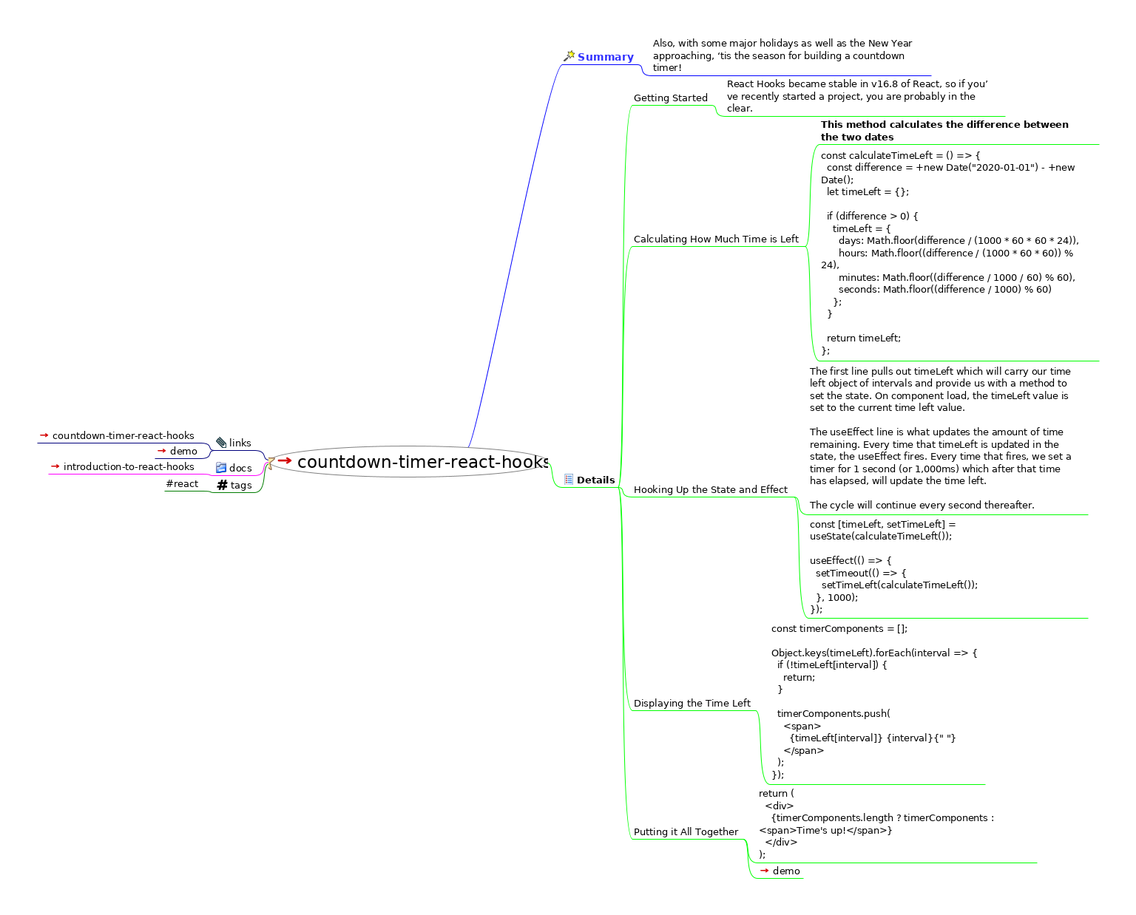
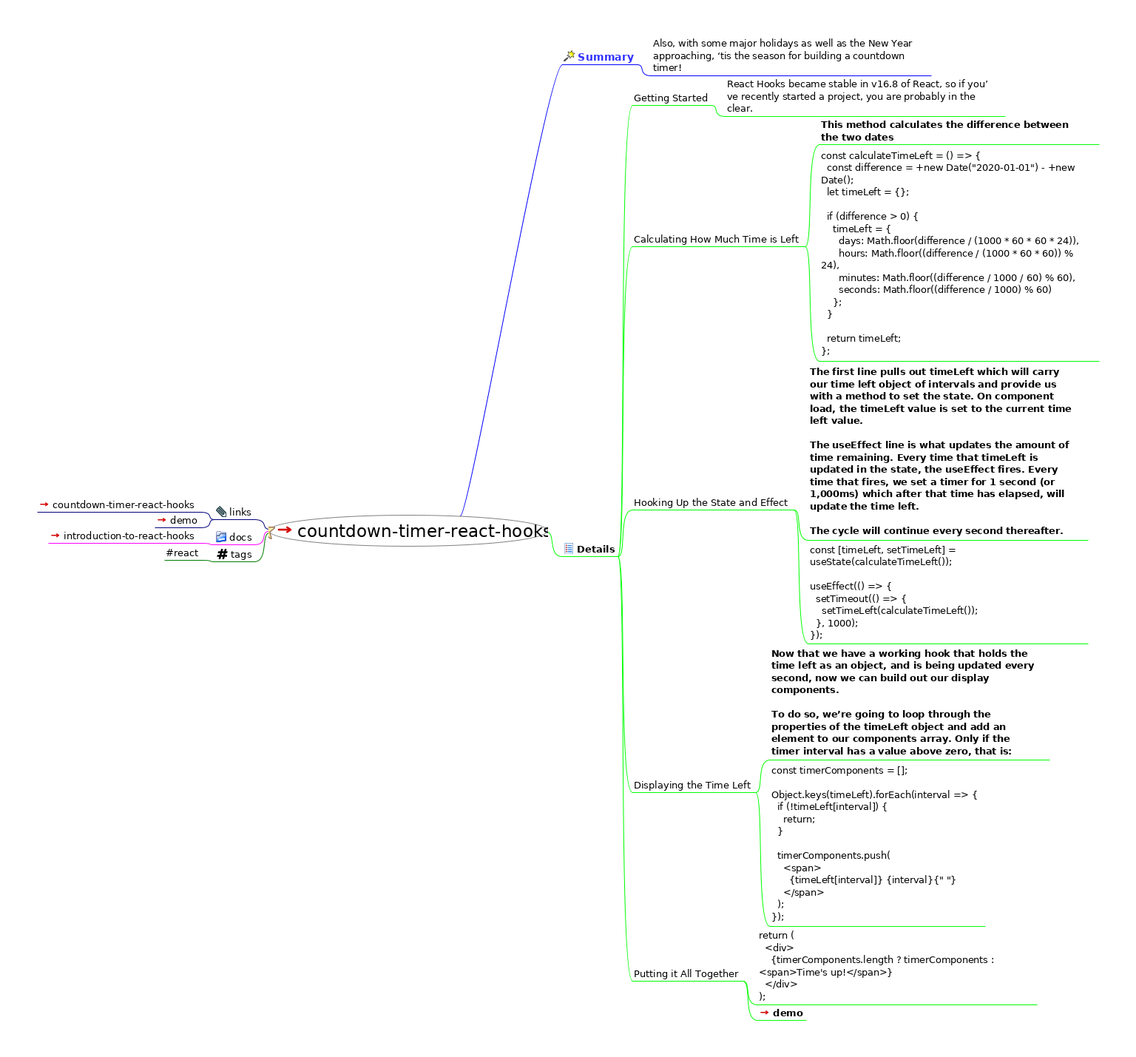
start countdown timer react hooks

Changed region(s): [[0.0312, 0.0307, 0.9375, 0.9822]]

diff --git a/2019/11/countdown-timer-react-hooks.html b/2019/11/countdown-timer-react-hooks.html
@@ -23,10 +23,10 @@
                    };
                };
           
-          --></script></head><body><h1>countdown-timer-react-hooks</h1><div style="width:96%;  padding:2%;  margin-bottom:10px;  border: 0px;  text-align:center;  vertical-align:center;"><img src="countdown-timer-react-hooks.html_files/image.png" style="margin-bottom:10px; &#9;border: 0px; &#9;text-align:center; &#9;vertical-align:center;" alt="Imagemap" usemap="#fm_imagemap" /></div><map name="fm_imagemap" id="fm_imagemap"><area shape="rect" href="index.html" alt="countdown-timer-react-hooks" title="countdown-timer-react-hooks" coords="363,603,741,646" />
+          --></script></head><body><h1>countdown-timer-react-hooks</h1><div style="width:96%;  padding:2%;  margin-bottom:10px;  border: 0px;  text-align:center;  vertical-align:center;"><img src="countdown-timer-react-hooks.html_files/image.png" style="margin-bottom:10px; &#9;border: 0px; &#9;text-align:center; &#9;vertical-align:center;" alt="Imagemap" usemap="#fm_imagemap" /></div><map name="fm_imagemap" id="fm_imagemap"><area shape="rect" href="index.html" alt="countdown-timer-react-hooks" title="countdown-timer-react-hooks" coords="363,696,741,739" />
 <area shape="rect" href="#FMID_1226961462FM" alt="Summary" title="Summary" coords="760,68,862,87" />
 <area shape="rect" href="#FMID_1869070715FM" alt="Also, with some major holidays as well a ..." title="Also, with some major holidays as well a ..." coords="881,50,1259,102" />
-<area shape="rect" href="#FMID_120250381FM" alt="Details" title="Details" coords="760,641,836,659" />
+<area shape="rect" href="#FMID_120250381FM" alt="Details" title="Details" coords="760,734,836,752" />
 <area shape="rect" href="#FMID_1518855550FM" alt="Getting Started" title="Getting Started" coords="855,124,962,142" />
 <area shape="rect" href="#FMID_8458858FM" alt="React Hooks became stable in v16.8 of Re ..." title="React Hooks became stable in v16.8 of Re ..." coords="981,105,1359,157" />
 <area shape="rect" href="#FMID_962556769FM" alt="Calculating How Much Time is Left" title="Calculating How Much Time is Left" coords="855,315,1089,333" />
@@ -34,30 +34,31 @@
 <area shape="rect" href="#FMID_1756193470FM" alt="const calculateTimeLeft = () =&gt; {
   cons ..." title="const calculateTimeLeft = () =&gt; {
   cons ..." coords="1108,198,1486,488" />
-<area shape="rect" href="#FMID_1580346473FM" alt="Hooking Up the State and Effect" title="Hooking Up the State and Effect" coords="855,654,1074,672" />
-<area shape="rect" href="#FMID_258451495FM" alt="The first line pulls out timeLeft which  ..." title="The first line pulls out timeLeft which  ..." coords="1093,491,1471,696" />
-<area shape="rect" href="#FMID_1047162089FM" alt="const [timeLeft, setTimeLeft] = useState ..." title="const [timeLeft, setTimeLeft] = useState ..." coords="1093,699,1471,836" />
-<area shape="rect" href="#FMID_1223853790FM" alt="Displaying the Time Left" title="Displaying the Time Left" coords="855,943,1022,961" />
+<area shape="rect" href="#FMID_1580346473FM" alt="Hooking Up the State and Effect" title="Hooking Up the State and Effect" coords="855,671,1074,689" />
+<area shape="rect" href="#FMID_258451495FM" alt="The first line pulls out timeLeft which  ..." title="The first line pulls out timeLeft which  ..." coords="1093,491,1471,730" />
+<area shape="rect" href="#FMID_1047162089FM" alt="const [timeLeft, setTimeLeft] = useState ..." title="const [timeLeft, setTimeLeft] = useState ..." coords="1093,733,1471,870" />
+<area shape="rect" href="#FMID_1223853790FM" alt="Displaying the Time Left" title="Displaying the Time Left" coords="855,1053,1022,1071" />
+<area shape="rect" href="#FMID_1880533662FM" alt="Now that we have a working hook that hol ..." title="Now that we have a working hook that hol ..." coords="1041,873,1419,1027" />
 <area shape="rect" href="#FMID_1792001186FM" alt="const timerComponents = [];
 
 Object.keys ..." title="const timerComponents = [];
 
-Object.keys ..." coords="1041,839,1332,1061" />
-<area shape="rect" href="#FMID_1848906989FM" alt="Putting it All Together" title="Putting it All Together" coords="855,1117,1005,1135" />
+Object.keys ..." coords="1041,1030,1332,1252" />
+<area shape="rect" href="#FMID_1848906989FM" alt="Putting it All Together" title="Putting it All Together" coords="855,1308,1005,1326" />
 <area shape="rect" href="#FMID_1466101325FM" alt="return (
   &lt;div&gt;
     {timerComponents.le ..." title="return (
   &lt;div&gt;
-    {timerComponents.le ..." coords="1024,1064,1402,1167" />
-<area shape="rect" href="https://codesandbox.io/s/funny-sinoussi-howyc" alt="demo" title="demo" coords="1024,1170,1086,1188" />
-<area shape="rect" href="#FMID_808607355FM" alt="links" title="links" coords="290,591,344,609" />
-<area shape="rect" href="https://alligator.io/react/countdown-timer-react-hooks/" alt="countdown-timer-react-hooks" title="countdown-timer-react-hooks" coords="50,581,271,599" />
-<area shape="rect" href="https://codesandbox.io/s/funny-sinoussi-howyc" alt="demo" title="demo" coords="209,602,271,620" />
-<area shape="rect" href="#FMID_1100215200FM" alt="docs" title="docs" coords="290,625,344,643" />
-<area shape="rect" href="https://alligator.io/react/react-hooks/" alt="introduction-to-react-hooks" title="introduction-to-react-hooks" coords="65,623,271,641" />
-<area shape="rect" href="#FMID_466759422FM" alt="tags" title="tags" coords="291,648,344,666" />
-<area shape="rect" href="#FMID_726822941FM" alt="#react" title="#react" coords="222,646,272,664" />
+    {timerComponents.le ..." coords="1024,1255,1402,1358" />
+<area shape="rect" href="https://codesandbox.io/s/funny-sinoussi-howyc" alt="demo" title="demo" coords="1024,1361,1090,1379" />
+<area shape="rect" href="#FMID_808607355FM" alt="links" title="links" coords="290,684,344,702" />
+<area shape="rect" href="https://alligator.io/react/countdown-timer-react-hooks/" alt="countdown-timer-react-hooks" title="countdown-timer-react-hooks" coords="50,674,271,692" />
+<area shape="rect" href="https://codesandbox.io/s/funny-sinoussi-howyc" alt="demo" title="demo" coords="209,695,271,713" />
+<area shape="rect" href="#FMID_1100215200FM" alt="docs" title="docs" coords="290,718,344,736" />
+<area shape="rect" href="https://alligator.io/react/react-hooks/" alt="introduction-to-react-hooks" title="introduction-to-react-hooks" coords="65,716,271,734" />
+<area shape="rect" href="#FMID_466759422FM" alt="tags" title="tags" coords="291,741,344,759" />
+<area shape="rect" href="#FMID_726822941FM" alt="#react" title="#react" coords="222,739,272,757" />
 </map>
 
-<div class="node"><img src="countdown-timer-react-hooks.html_files/hide.png" class="hideshow" alt="hide" onClick="toggle(&quot;N65543&quot;)" id="imgN65543" /><img src="countdown-timer-react-hooks.html_files/icons/bookmark.svg" alt="bookmark" /> <a id="FMID_1831615648FM" /><div class="nodecontent" style="color:#000000;font-size:150%;"><a href="index.html">countdown-timer-react-hooks</a> <a href="index.html"><img src="countdown-timer-react-hooks.html_files/ilink.png" alt="User Link" style="border-width:0" /></a></div><div class="content" id="N65543"><div class="node"><img src="countdown-timer-react-hooks.html_files/hide.png" class="hideshow" alt="hide" onClick="toggle(&quot;N66445&quot;)" id="imgN66445" /><img src="countdown-timer-react-hooks.html_files/icons/wizard.svg" alt="wizard" /> <a id="FMID_1226961462FM" /><div class="nodecontent" style="color:#3333ff;font-size:92%;font-weight:bold;">Summary</div><div class="content" id="N66445"><div class="node"><img src="countdown-timer-react-hooks.html_files/leaf.png" class="hideshow" alt="leaf" /><a id="FMID_1869070715FM" /><div class="nodecontent" style="color:#000000;font-size:83%;">Also, with some major holidays as well as the New Year approaching, ‘tis the season for building a countdown timer!</div></div></div></div><div class="node"><img src="countdown-timer-react-hooks.html_files/hide.png" class="hideshow" alt="hide" onClick="toggle(&quot;N66523&quot;)" id="imgN66523" /><img src="countdown-timer-react-hooks.html_files/icons/list.svg" alt="list" /> <a id="FMID_120250381FM" /><div class="nodecontent" style="color:#000000;font-size:83%;font-weight:bold;">Details</div><div class="content" id="N66523"><div class="node"><img src="countdown-timer-react-hooks.html_files/hide.png" class="hideshow" alt="hide" onClick="toggle(&quot;N66564&quot;)" id="imgN66564" /><a id="FMID_1518855550FM" /><div class="nodecontent" style="color:#000000;font-size:83%;">Getting Started</div><div class="content" id="N66564"><div class="node"><img src="countdown-timer-react-hooks.html_files/leaf.png" class="hideshow" alt="leaf" /><a id="FMID_8458858FM" /><div class="nodecontent" style="color:#000000;font-size:83%;">React Hooks became stable in v16.8 of React, so if you’ve recently started a project, you are probably in the clear.</div></div></div></div><div class="node"><img src="countdown-timer-react-hooks.html_files/hide.png" class="hideshow" alt="hide" onClick="toggle(&quot;N66636&quot;)" id="imgN66636" /><a id="FMID_962556769FM" /><div class="nodecontent" style="color:#000000;font-size:83%;">Calculating How Much Time is Left</div><div class="content" id="N66636"><div class="node"><img src="countdown-timer-react-hooks.html_files/leaf.png" class="hideshow" alt="leaf" /><a id="FMID_1848900478FM" /><div class="nodecontent" style="color:#000000;font-size:83%;font-weight:bold;">This method calculates the difference between the two dates</div></div><div class="node"><img src="countdown-timer-react-hooks.html_files/leaf.png" class="hideshow" alt="leaf" /><a id="FMID_1756193470FM" /><div class="nodecontent" style="color:#000000;font-size:83%;">const calculateTimeLeft = () =&gt; {<br />  const difference = +new Date("2020-01-01") - +new Date();<br />  let timeLeft = {};<br /><br />  if (difference &gt; 0) {<br />    timeLeft = {<br />      days: Math.floor(difference / (1000 * 60 * 60 * 24)),<br />      hours: Math.floor((difference / (1000 * 60 * 60)) % 24),<br />      minutes: Math.floor((difference / 1000 / 60) % 60),<br />      seconds: Math.floor((difference / 1000) % 60)<br />    };<br />  }<br /><br />  return timeLeft;<br />};</div></div></div></div><div class="node"><img src="countdown-timer-react-hooks.html_files/hide.png" class="hideshow" alt="hide" onClick="toggle(&quot;N66744&quot;)" id="imgN66744" /><a id="FMID_1580346473FM" /><div class="nodecontent" style="color:#000000;font-size:83%;">Hooking Up the State and Effect</div><div class="content" id="N66744"><div class="node"><img src="countdown-timer-react-hooks.html_files/leaf.png" class="hideshow" alt="leaf" /><a id="FMID_258451495FM" /><div class="nodecontent" style="color:#000000;font-size:83%;">The first line pulls out timeLeft which will carry our time left object of intervals and provide us with a method to set the state. On component load, the timeLeft value is set to the current time left value.<br /><br />The useEffect line is what updates the amount of time remaining. Every time that timeLeft is updated in the state, the useEffect fires. Every time that fires, we set a timer for 1 second (or 1,000ms) which after that time has elapsed, will update the time left.<br /><br />The cycle will continue every second thereafter.</div></div><div class="node"><img src="countdown-timer-react-hooks.html_files/leaf.png" class="hideshow" alt="leaf" /><a id="FMID_1047162089FM" /><div class="nodecontent" style="color:#000000;font-size:83%;">const [timeLeft, setTimeLeft] = useState(calculateTimeLeft());<br /><br />useEffect(() =&gt; {<br />  setTimeout(() =&gt; {<br />    setTimeLeft(calculateTimeLeft());<br />  }, 1000);<br />});</div></div></div></div><div class="node"><img src="countdown-timer-react-hooks.html_files/hide.png" class="hideshow" alt="hide" onClick="toggle(&quot;N66852&quot;)" id="imgN66852" /><a id="FMID_1223853790FM" /><div class="nodecontent" style="color:#000000;font-size:83%;">Displaying the Time Left</div><div class="content" id="N66852"><div class="node"><img src="countdown-timer-react-hooks.html_files/leaf.png" class="hideshow" alt="leaf" /><a id="FMID_1792001186FM" /><div class="nodecontent" style="color:#000000;font-size:83%;">const timerComponents = [];<br /><br />Object.keys(timeLeft).forEach(interval =&gt; {<br />  if (!timeLeft[interval]) {<br />    return;<br />  }<br /><br />  timerComponents.push(<br />    &lt;span&gt;<br />      {timeLeft[interval]} {interval}{" "}<br />    &lt;/span&gt;<br />  );<br />});</div></div></div></div><div class="node"><img src="countdown-timer-react-hooks.html_files/hide.png" class="hideshow" alt="hide" onClick="toggle(&quot;N66924&quot;)" id="imgN66924" /><a id="FMID_1848906989FM" /><div class="nodecontent" style="color:#000000;font-size:83%;">Putting it All Together</div><div class="content" id="N66924"><div class="node"><img src="countdown-timer-react-hooks.html_files/leaf.png" class="hideshow" alt="leaf" /><a id="FMID_1466101325FM" /><div class="nodecontent" style="color:#000000;font-size:83%;">return (<br />  &lt;div&gt;<br />    {timerComponents.length ? timerComponents : &lt;span&gt;Time's up!&lt;/span&gt;}<br />  &lt;/div&gt;<br />);</div></div><div class="node"><img src="countdown-timer-react-hooks.html_files/leaf.png" class="hideshow" alt="leaf" /><a id="FMID_1381131086FM" /><div class="nodecontent" style="color:#000000;font-size:83%;"><a href="https://codesandbox.io/s/funny-sinoussi-howyc">demo</a> <a href="https://codesandbox.io/s/funny-sinoussi-howyc"><img src="countdown-timer-react-hooks.html_files/ilink.png" alt="User Link" style="border-width:0" /></a></div></div></div></div></div></div><div class="node"><img src="countdown-timer-react-hooks.html_files/hide.png" class="hideshow" alt="hide" onClick="toggle(&quot;N67034&quot;)" id="imgN67034" /><img src="countdown-timer-react-hooks.html_files/icons/attach.svg" alt="attach" /> <a id="FMID_808607355FM" /><div class="nodecontent" style="color:#000000;font-size:83%;">links</div><div class="content" id="N67034"><div class="node"><img src="countdown-timer-react-hooks.html_files/leaf.png" class="hideshow" alt="leaf" /><a id="FMID_147800645FM" /><div class="nodecontent" style="color:#000000;font-size:83%;"><a href="https://alligator.io/react/countdown-timer-react-hooks/">countdown-timer-react-hooks</a> <a href="https://alligator.io/react/countdown-timer-react-hooks/"><img src="countdown-timer-react-hooks.html_files/ilink.png" alt="User Link" style="border-width:0" /></a></div></div><div class="node"><img src="countdown-timer-react-hooks.html_files/leaf.png" class="hideshow" alt="leaf" /><a id="FMID_1605438661FM" /><div class="nodecontent" style="color:#000000;font-size:83%;"><a href="https://codesandbox.io/s/funny-sinoussi-howyc">demo</a> <a href="https://codesandbox.io/s/funny-sinoussi-howyc"><img src="countdown-timer-react-hooks.html_files/ilink.png" alt="User Link" style="border-width:0" /></a></div></div></div></div><div class="node"><img src="countdown-timer-react-hooks.html_files/hide.png" class="hideshow" alt="hide" onClick="toggle(&quot;N67150&quot;)" id="imgN67150" /><img src="countdown-timer-react-hooks.html_files/icons/folder.svg" alt="folder" /> <a id="FMID_1100215200FM" /><div class="nodecontent" style="color:#000000;font-size:83%;">docs</div><div class="content" id="N67150"><div class="node"><img src="countdown-timer-react-hooks.html_files/leaf.png" class="hideshow" alt="leaf" /><a id="FMID_1510512159FM" /><div class="nodecontent" style="color:#000000;font-size:83%;"><a href="https://alligator.io/react/react-hooks/">introduction-to-react-hooks</a> <a href="https://alligator.io/react/react-hooks/"><img src="countdown-timer-react-hooks.html_files/ilink.png" alt="User Link" style="border-width:0" /></a></div></div></div></div><div class="node"><img src="countdown-timer-react-hooks.html_files/hide.png" class="hideshow" alt="hide" onClick="toggle(&quot;N67229&quot;)" id="imgN67229" /><img src="countdown-timer-react-hooks.html_files/icons/hashtag.png" alt="hashtag" /> <a id="FMID_466759422FM" /><div class="nodecontent" style="color:#000000;font-size:83%;">tags</div><div class="content" id="N67229"><div class="node"><img src="countdown-timer-react-hooks.html_files/leaf.png" class="hideshow" alt="leaf" /><a id="FMID_726822941FM" /><div class="nodecontent" style="color:#000000;font-size:83%;">#react</div></div></div></div></div></div>
+<div class="node"><img src="countdown-timer-react-hooks.html_files/hide.png" class="hideshow" alt="hide" onClick="toggle(&quot;N65543&quot;)" id="imgN65543" /><img src="countdown-timer-react-hooks.html_files/icons/bookmark.svg" alt="bookmark" /> <a id="FMID_1831615648FM" /><div class="nodecontent" style="color:#000000;font-size:150%;"><a href="index.html">countdown-timer-react-hooks</a> <a href="index.html"><img src="countdown-timer-react-hooks.html_files/ilink.png" alt="User Link" style="border-width:0" /></a></div><div class="content" id="N65543"><div class="node"><img src="countdown-timer-react-hooks.html_files/hide.png" class="hideshow" alt="hide" onClick="toggle(&quot;N66445&quot;)" id="imgN66445" /><img src="countdown-timer-react-hooks.html_files/icons/wizard.svg" alt="wizard" /> <a id="FMID_1226961462FM" /><div class="nodecontent" style="color:#3333ff;font-size:92%;font-weight:bold;">Summary</div><div class="content" id="N66445"><div class="node"><img src="countdown-timer-react-hooks.html_files/leaf.png" class="hideshow" alt="leaf" /><a id="FMID_1869070715FM" /><div class="nodecontent" style="color:#000000;font-size:83%;">Also, with some major holidays as well as the New Year approaching, ‘tis the season for building a countdown timer!</div></div></div></div><div class="node"><img src="countdown-timer-react-hooks.html_files/hide.png" class="hideshow" alt="hide" onClick="toggle(&quot;N66523&quot;)" id="imgN66523" /><img src="countdown-timer-react-hooks.html_files/icons/list.svg" alt="list" /> <a id="FMID_120250381FM" /><div class="nodecontent" style="color:#000000;font-size:83%;font-weight:bold;">Details</div><div class="content" id="N66523"><div class="node"><img src="countdown-timer-react-hooks.html_files/hide.png" class="hideshow" alt="hide" onClick="toggle(&quot;N66564&quot;)" id="imgN66564" /><a id="FMID_1518855550FM" /><div class="nodecontent" style="color:#000000;font-size:83%;">Getting Started</div><div class="content" id="N66564"><div class="node"><img src="countdown-timer-react-hooks.html_files/leaf.png" class="hideshow" alt="leaf" /><a id="FMID_8458858FM" /><div class="nodecontent" style="color:#000000;font-size:83%;">React Hooks became stable in v16.8 of React, so if you’ve recently started a project, you are probably in the clear.</div></div></div></div><div class="node"><img src="countdown-timer-react-hooks.html_files/hide.png" class="hideshow" alt="hide" onClick="toggle(&quot;N66636&quot;)" id="imgN66636" /><a id="FMID_962556769FM" /><div class="nodecontent" style="color:#000000;font-size:83%;">Calculating How Much Time is Left</div><div class="content" id="N66636"><div class="node"><img src="countdown-timer-react-hooks.html_files/leaf.png" class="hideshow" alt="leaf" /><a id="FMID_1848900478FM" /><div class="nodecontent" style="color:#000000;font-size:83%;font-weight:bold;">This method calculates the difference between the two dates</div></div><div class="node"><img src="countdown-timer-react-hooks.html_files/leaf.png" class="hideshow" alt="leaf" /><a id="FMID_1756193470FM" /><div class="nodecontent" style="color:#000000;font-size:83%;">const calculateTimeLeft = () =&gt; {<br />  const difference = +new Date("2020-01-01") - +new Date();<br />  let timeLeft = {};<br /><br />  if (difference &gt; 0) {<br />    timeLeft = {<br />      days: Math.floor(difference / (1000 * 60 * 60 * 24)),<br />      hours: Math.floor((difference / (1000 * 60 * 60)) % 24),<br />      minutes: Math.floor((difference / 1000 / 60) % 60),<br />      seconds: Math.floor((difference / 1000) % 60)<br />    };<br />  }<br /><br />  return timeLeft;<br />};</div></div></div></div><div class="node"><img src="countdown-timer-react-hooks.html_files/hide.png" class="hideshow" alt="hide" onClick="toggle(&quot;N66744&quot;)" id="imgN66744" /><a id="FMID_1580346473FM" /><div class="nodecontent" style="color:#000000;font-size:83%;">Hooking Up the State and Effect</div><div class="content" id="N66744"><div class="node"><img src="countdown-timer-react-hooks.html_files/leaf.png" class="hideshow" alt="leaf" /><a id="FMID_258451495FM" /><div class="nodecontent" style="color:#000000;font-size:83%;font-weight:bold;">The first line pulls out timeLeft which will carry our time left object of intervals and provide us with a method to set the state. On component load, the timeLeft value is set to the current time left value.<br /><br />The useEffect line is what updates the amount of time remaining. Every time that timeLeft is updated in the state, the useEffect fires. Every time that fires, we set a timer for 1 second (or 1,000ms) which after that time has elapsed, will update the time left.<br /><br />The cycle will continue every second thereafter.</div></div><div class="node"><img src="countdown-timer-react-hooks.html_files/leaf.png" class="hideshow" alt="leaf" /><a id="FMID_1047162089FM" /><div class="nodecontent" style="color:#000000;font-size:83%;">const [timeLeft, setTimeLeft] = useState(calculateTimeLeft());<br /><br />useEffect(() =&gt; {<br />  setTimeout(() =&gt; {<br />    setTimeLeft(calculateTimeLeft());<br />  }, 1000);<br />});</div></div></div></div><div class="node"><img src="countdown-timer-react-hooks.html_files/hide.png" class="hideshow" alt="hide" onClick="toggle(&quot;N66852&quot;)" id="imgN66852" /><a id="FMID_1223853790FM" /><div class="nodecontent" style="color:#000000;font-size:83%;">Displaying the Time Left</div><div class="content" id="N66852"><div class="node"><img src="countdown-timer-react-hooks.html_files/leaf.png" class="hideshow" alt="leaf" /><a id="FMID_1880533662FM" /><div class="nodecontent" style="color:#000000;font-size:83%;font-weight:bold;">Now that we have a working hook that holds the time left as an object, and is being updated every second, now we can build out our display components.<br /><br />To do so, we’re going to loop through the properties of the timeLeft object and add an element to our components array. Only if the timer interval has a value above zero, that is:</div></div><div class="node"><img src="countdown-timer-react-hooks.html_files/leaf.png" class="hideshow" alt="leaf" /><a id="FMID_1792001186FM" /><div class="nodecontent" style="color:#000000;font-size:83%;">const timerComponents = [];<br /><br />Object.keys(timeLeft).forEach(interval =&gt; {<br />  if (!timeLeft[interval]) {<br />    return;<br />  }<br /><br />  timerComponents.push(<br />    &lt;span&gt;<br />      {timeLeft[interval]} {interval}{" "}<br />    &lt;/span&gt;<br />  );<br />});</div></div></div></div><div class="node"><img src="countdown-timer-react-hooks.html_files/hide.png" class="hideshow" alt="hide" onClick="toggle(&quot;N66960&quot;)" id="imgN66960" /><a id="FMID_1848906989FM" /><div class="nodecontent" style="color:#000000;font-size:83%;">Putting it All Together</div><div class="content" id="N66960"><div class="node"><img src="countdown-timer-react-hooks.html_files/leaf.png" class="hideshow" alt="leaf" /><a id="FMID_1466101325FM" /><div class="nodecontent" style="color:#000000;font-size:83%;">return (<br />  &lt;div&gt;<br />    {timerComponents.length ? timerComponents : &lt;span&gt;Time's up!&lt;/span&gt;}<br />  &lt;/div&gt;<br />);</div></div><div class="node"><img src="countdown-timer-react-hooks.html_files/leaf.png" class="hideshow" alt="leaf" /><a id="FMID_1381131086FM" /><div class="nodecontent" style="color:#000000;font-size:83%;font-weight:bold;"><a href="https://codesandbox.io/s/funny-sinoussi-howyc">demo</a> <a href="https://codesandbox.io/s/funny-sinoussi-howyc"><img src="countdown-timer-react-hooks.html_files/ilink.png" alt="User Link" style="border-width:0" /></a></div></div></div></div></div></div><div class="node"><img src="countdown-timer-react-hooks.html_files/hide.png" class="hideshow" alt="hide" onClick="toggle(&quot;N67070&quot;)" id="imgN67070" /><img src="countdown-timer-react-hooks.html_files/icons/attach.svg" alt="attach" /> <a id="FMID_808607355FM" /><div class="nodecontent" style="color:#000000;font-size:83%;">links</div><div class="content" id="N67070"><div class="node"><img src="countdown-timer-react-hooks.html_files/leaf.png" class="hideshow" alt="leaf" /><a id="FMID_147800645FM" /><div class="nodecontent" style="color:#000000;font-size:83%;"><a href="https://alligator.io/react/countdown-timer-react-hooks/">countdown-timer-react-hooks</a> <a href="https://alligator.io/react/countdown-timer-react-hooks/"><img src="countdown-timer-react-hooks.html_files/ilink.png" alt="User Link" style="border-width:0" /></a></div></div><div class="node"><img src="countdown-timer-react-hooks.html_files/leaf.png" class="hideshow" alt="leaf" /><a id="FMID_1605438661FM" /><div class="nodecontent" style="color:#000000;font-size:83%;"><a href="https://codesandbox.io/s/funny-sinoussi-howyc">demo</a> <a href="https://codesandbox.io/s/funny-sinoussi-howyc"><img src="countdown-timer-react-hooks.html_files/ilink.png" alt="User Link" style="border-width:0" /></a></div></div></div></div><div class="node"><img src="countdown-timer-react-hooks.html_files/hide.png" class="hideshow" alt="hide" onClick="toggle(&quot;N67186&quot;)" id="imgN67186" /><img src="countdown-timer-react-hooks.html_files/icons/folder.svg" alt="folder" /> <a id="FMID_1100215200FM" /><div class="nodecontent" style="color:#000000;font-size:83%;">docs</div><div class="content" id="N67186"><div class="node"><img src="countdown-timer-react-hooks.html_files/leaf.png" class="hideshow" alt="leaf" /><a id="FMID_1510512159FM" /><div class="nodecontent" style="color:#000000;font-size:83%;"><a href="https://alligator.io/react/react-hooks/">introduction-to-react-hooks</a> <a href="https://alligator.io/react/react-hooks/"><img src="countdown-timer-react-hooks.html_files/ilink.png" alt="User Link" style="border-width:0" /></a></div></div></div></div><div class="node"><img src="countdown-timer-react-hooks.html_files/hide.png" class="hideshow" alt="hide" onClick="toggle(&quot;N67265&quot;)" id="imgN67265" /><img src="countdown-timer-react-hooks.html_files/icons/hashtag.png" alt="hashtag" /> <a id="FMID_466759422FM" /><div class="nodecontent" style="color:#000000;font-size:83%;">tags</div><div class="content" id="N67265"><div class="node"><img src="countdown-timer-react-hooks.html_files/leaf.png" class="hideshow" alt="leaf" /><a id="FMID_726822941FM" /><div class="nodecontent" style="color:#000000;font-size:83%;">#react</div></div></div></div></div></div>
 </body></html>

diff --git a/2019/11/countdown-timer-react-hooks.mm b/2019/11/countdown-timer-react-hooks.mm
@@ -85,15 +85,22 @@
 <node TEXT="const calculateTimeLeft = () =&gt; {&#xa;  const difference = +new Date(&quot;2020-01-01&quot;) - +new Date();&#xa;  let timeLeft = {};&#xa;&#xa;  if (difference &gt; 0) {&#xa;    timeLeft = {&#xa;      days: Math.floor(difference / (1000 * 60 * 60 * 24)),&#xa;      hours: Math.floor((difference / (1000 * 60 * 60)) % 24),&#xa;      minutes: Math.floor((difference / 1000 / 60) % 60),&#xa;      seconds: Math.floor((difference / 1000) % 60)&#xa;    };&#xa;  }&#xa;&#xa;  return timeLeft;&#xa;};" ID="ID_1756193470" CREATED="1574670114240" MODIFIED="1574670115971"/>
 </node>
 <node TEXT="Hooking Up the State and Effect" ID="ID_1580346473" CREATED="1574669534349" MODIFIED="1574669542630">
-<node TEXT="The first line pulls out timeLeft which will carry our time left object of intervals and provide us with a method to set the state. On component load, the timeLeft value is set to the current time left value.&#xa;&#xa;The useEffect line is what updates the amount of time remaining. Every time that timeLeft is updated in the state, the useEffect fires. Every time that fires, we set a timer for 1 second (or 1,000ms) which after that time has elapsed, will update the time left.&#xa;&#xa;The cycle will continue every second thereafter." ID="ID_258451495" CREATED="1574670191889" MODIFIED="1574670193860"/>
+<node TEXT="The first line pulls out timeLeft which will carry our time left object of intervals and provide us with a method to set the state. On component load, the timeLeft value is set to the current time left value.&#xa;&#xa;The useEffect line is what updates the amount of time remaining. Every time that timeLeft is updated in the state, the useEffect fires. Every time that fires, we set a timer for 1 second (or 1,000ms) which after that time has elapsed, will update the time left.&#xa;&#xa;The cycle will continue every second thereafter." ID="ID_258451495" CREATED="1574670191889" MODIFIED="1574670401448">
+<font BOLD="true"/>
+</node>
 <node TEXT="const [timeLeft, setTimeLeft] = useState(calculateTimeLeft());&#xa;&#xa;useEffect(() =&gt; {&#xa;  setTimeout(() =&gt; {&#xa;    setTimeLeft(calculateTimeLeft());&#xa;  }, 1000);&#xa;});" ID="ID_1047162089" CREATED="1574670167174" MODIFIED="1574670168882"/>
 </node>
 <node TEXT="Displaying the Time Left" ID="ID_1223853790" CREATED="1574669553431" MODIFIED="1574669557348">
+<node TEXT="Now that we have a working hook that holds the time left as an object, and is being updated every second, now we can build out our display components.&#xa;&#xa;To do so, we&#x2019;re going to loop through the properties of the timeLeft object and add an element to our components array. Only if the timer interval has a value above zero, that is:" ID="ID_1880533662" CREATED="1574670394247" MODIFIED="1574670399296">
+<font BOLD="true"/>
+</node>
 <node TEXT="const timerComponents = [];&#xa;&#xa;Object.keys(timeLeft).forEach(interval =&gt; {&#xa;  if (!timeLeft[interval]) {&#xa;    return;&#xa;  }&#xa;&#xa;  timerComponents.push(&#xa;    &lt;span&gt;&#xa;      {timeLeft[interval]} {interval}{&quot; &quot;}&#xa;    &lt;/span&gt;&#xa;  );&#xa;});" ID="ID_1792001186" CREATED="1574670222556" MODIFIED="1574670223876"/>
 </node>
 <node TEXT="Putting it All Together" ID="ID_1848906989" CREATED="1574669562947" MODIFIED="1574669568081">
 <node TEXT="return (&#xa;  &lt;div&gt;&#xa;    {timerComponents.length ? timerComponents : &lt;span&gt;Time&apos;s up!&lt;/span&gt;}&#xa;  &lt;/div&gt;&#xa;);" ID="ID_1466101325" CREATED="1574670237400" MODIFIED="1574670240414"/>
-<node TEXT="demo" ID="ID_1381131086" CREATED="1574669594439" MODIFIED="1574669598330" LINK="https://codesandbox.io/s/funny-sinoussi-howyc"/>
+<node TEXT="demo" ID="ID_1381131086" CREATED="1574669594439" MODIFIED="1574670409414" LINK="https://codesandbox.io/s/funny-sinoussi-howyc">
+<font BOLD="true"/>
+</node>
 </node>
 </node>
 <node TEXT="links" POSITION="left" ID="ID_808607355" CREATED="1570968728188" MODIFIED="1570968728190">
